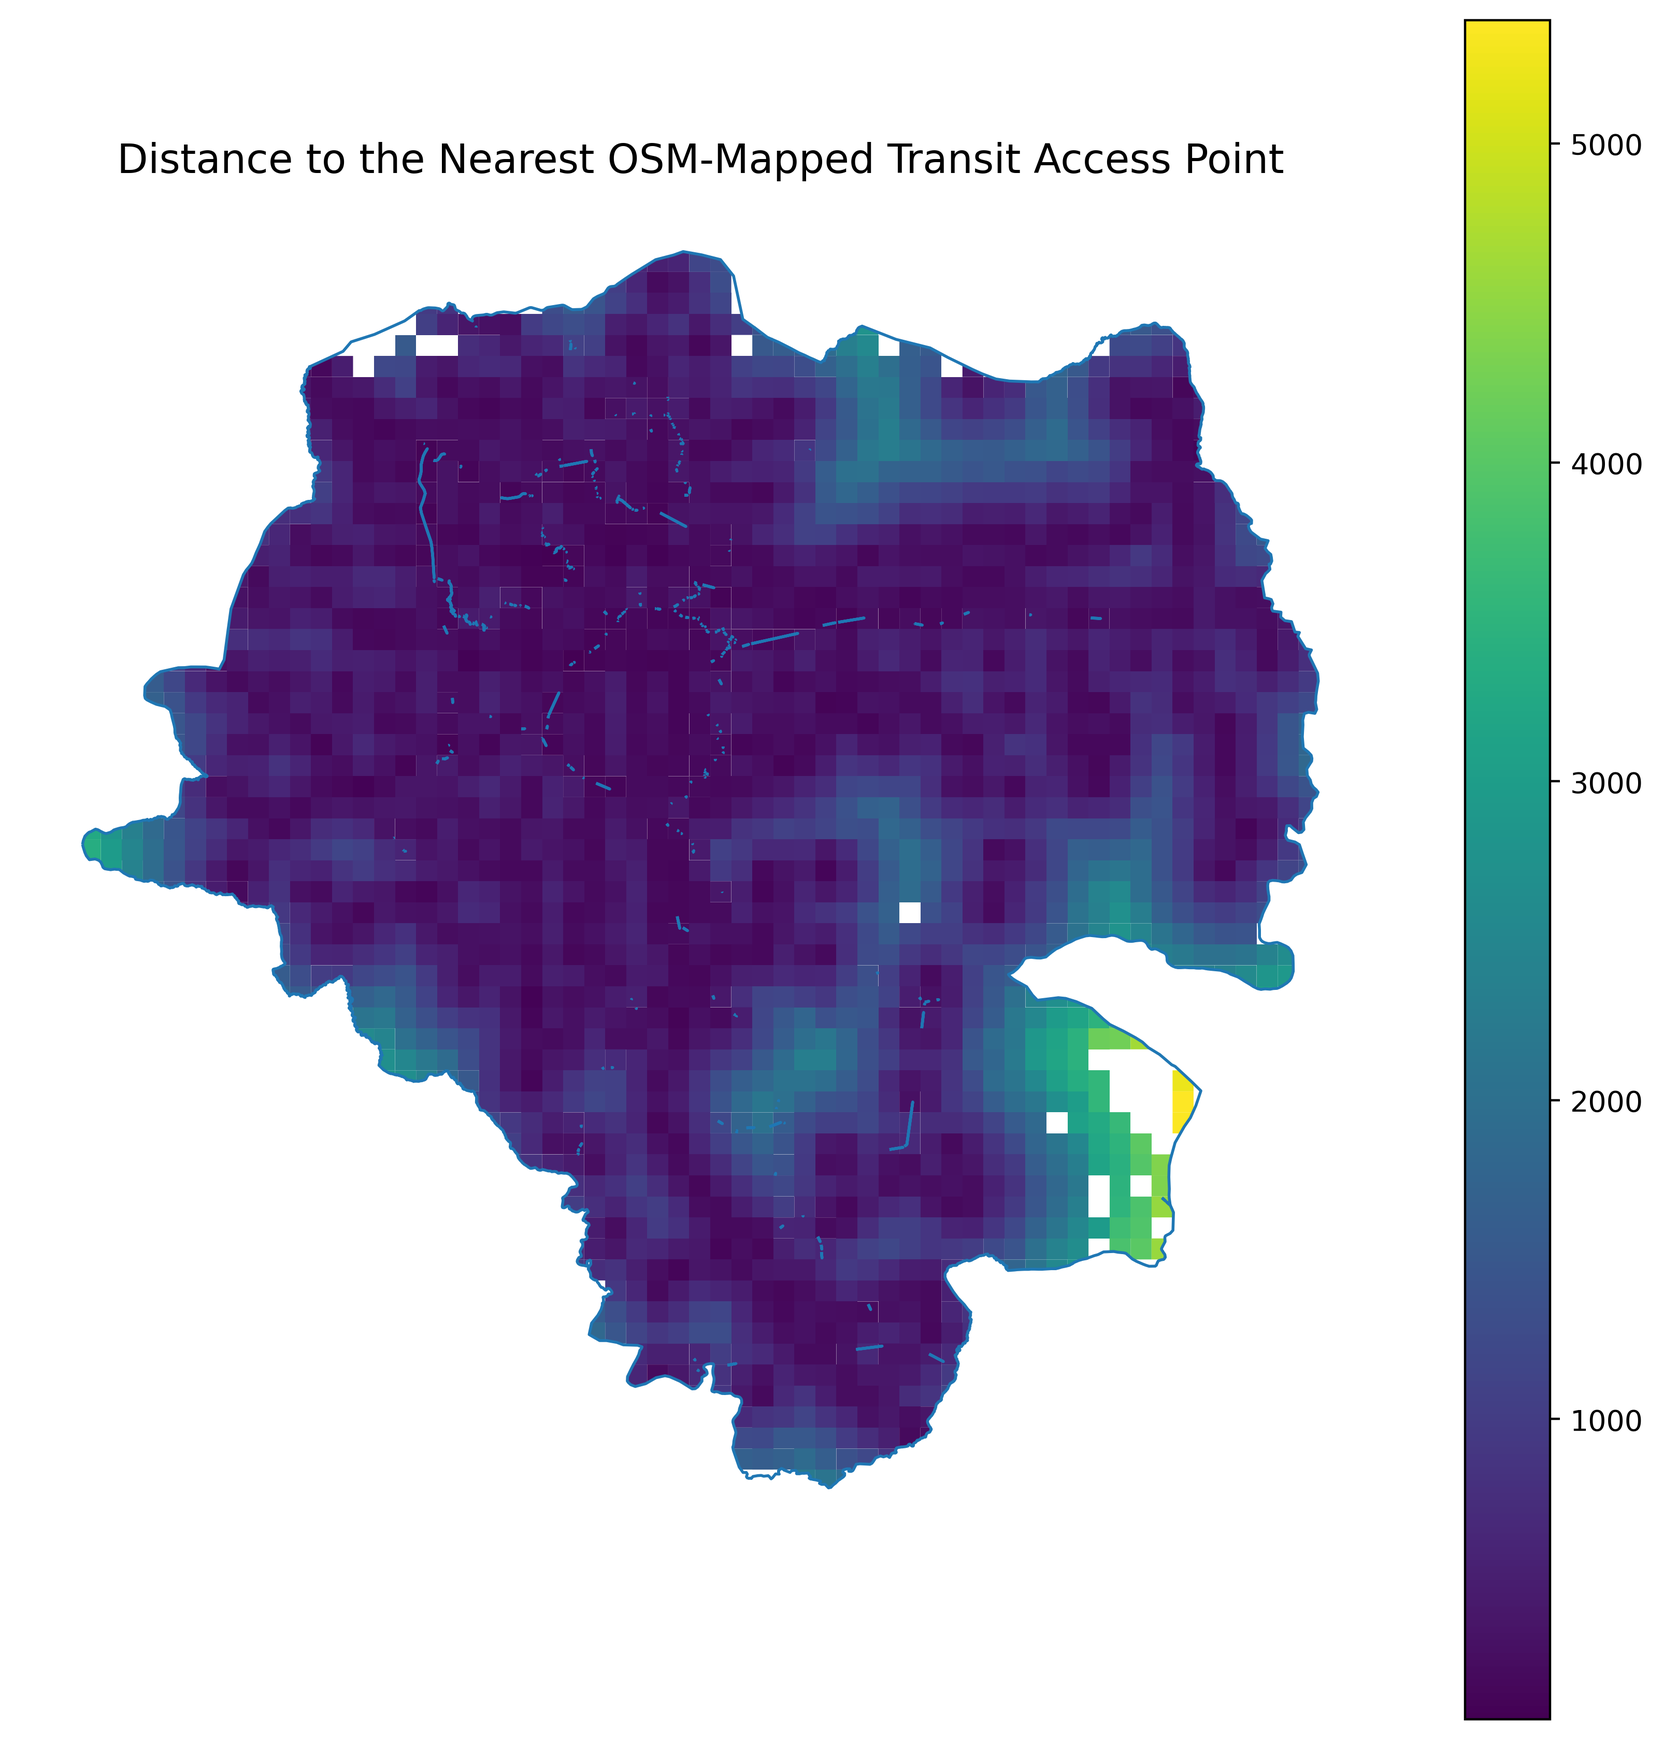
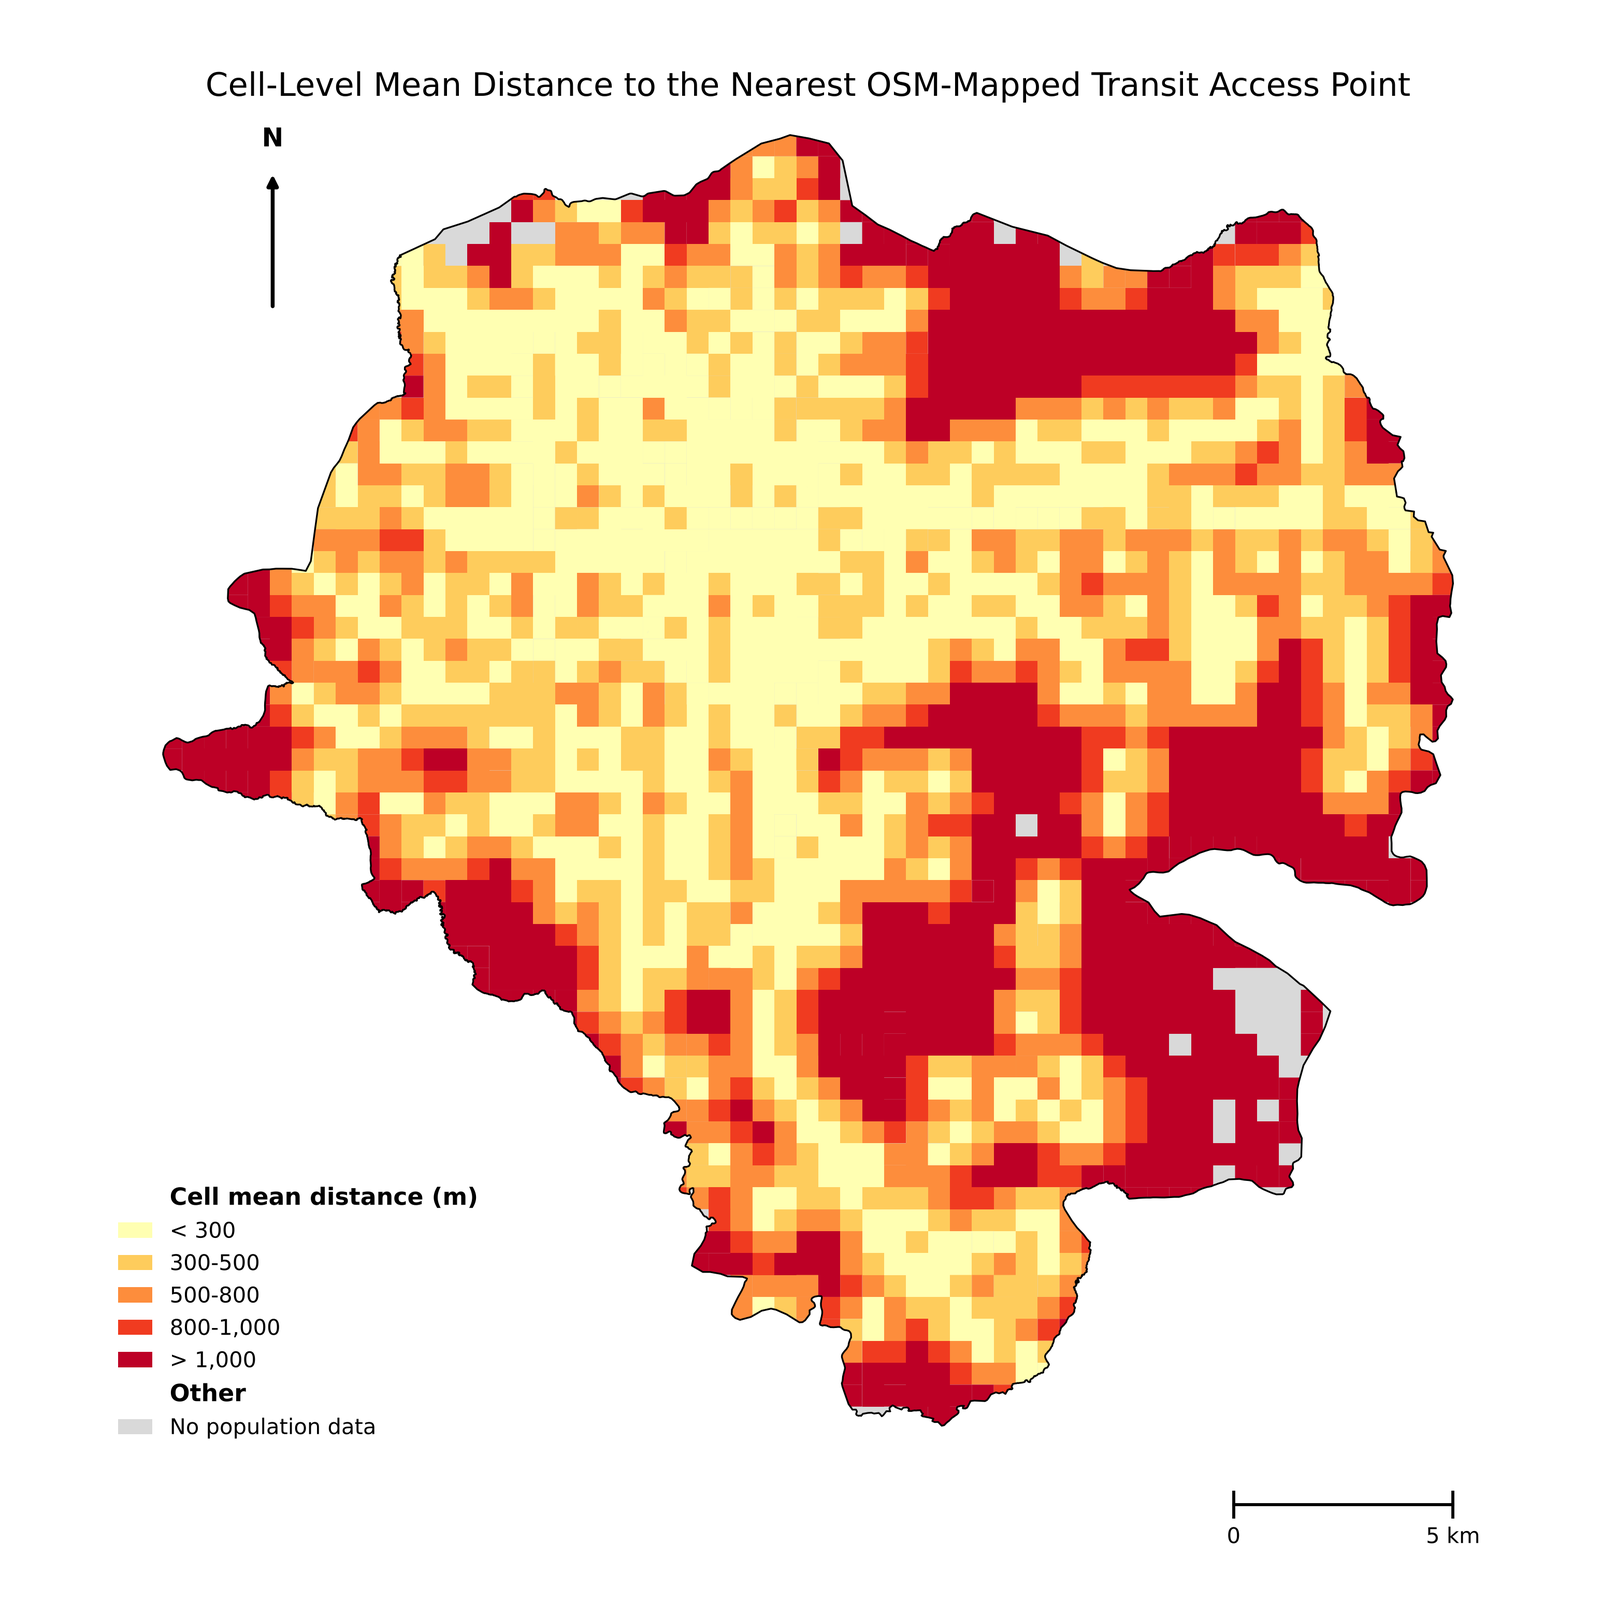
Add files via upload

diff --git a/src/make_figures.py b/src/make_figures.py
@@ -1,0 +1,180 @@
+"""Regenerate publication Figures 1-4 from the saved analysis outputs.
+
+Usage (from the repository root):
+    python src/make_figures.py [output_dir]
+
+Inputs : outputs/geospatial/*.geojson|csv and data/raw/boundary/aa_worda_boundary.shp
+Outputs: Fig1_study_area_transit.png, Fig2_nearest_transit_distance.png,
+         Fig3_priority_clusters.png, Fig4_threshold_sensitivity.png (default: outputs/figures)
+No analysis is recomputed here; the figures only display the saved results.
+"""
+import sys
+from pathlib import Path
+
+import geopandas as gpd
+import matplotlib
+import numpy as np
+import pandas as pd
+
+matplotlib.use("Agg")
+import matplotlib.patheffects as pe
+import matplotlib.pyplot as plt
+from matplotlib.colors import BoundaryNorm, ListedColormap
+from matplotlib.lines import Line2D
+from matplotlib.patches import Patch
+
+ROOT = Path(__file__).resolve().parent.parent
+GEO = ROOT / "outputs" / "geospatial"
+BOUNDARY = ROOT / "data" / "raw" / "boundary" / "aa_worda_boundary.shp"
+OUT = Path(sys.argv[1]) if len(sys.argv) > 1 else ROOT / "outputs" / "figures"
+CRS = "EPSG:32637"
+DPI = 300
+plt.rcParams["font.family"] = "DejaVu Sans"
+BLUE, GREY, RED, ACCENT = "#1f77b4", "#d9d9d9", "#d62728", "#ff7f00"
+
+
+def load():
+    boundary = gpd.read_file(BOUNDARY).to_crs(CRS)
+    # Dissolve the woredas and keep only the outer ring(s): tiny interior gaps/slivers between
+    # woreda polygons would otherwise be drawn as stray lines. Analysis uses the saved outputs only.
+    from shapely.geometry import MultiPolygon, Polygon
+    u = boundary.union_all()
+    polys = list(u.geoms) if isinstance(u, MultiPolygon) else [u]
+    outline = gpd.GeoSeries([MultiPolygon([Polygon(p.exterior) for p in polys])], crs=CRS)
+    cells = gpd.read_file(GEO / "population_access_cells_500m.geojson").to_crs(CRS)
+    priority = gpd.read_file(GEO / "priority_cells_500m.geojson").to_crs(CRS)
+    stops = gpd.read_file(GEO / "transit_access_points.geojson").to_crs(CRS)
+    return outline, cells, priority, stops
+
+
+MAP_SIZE = (10.4, 10.4)  # identical canvas for Figs 1-3
+
+
+def base(outline, title, figsize=MAP_SIZE, fill=GREY):
+    fig, ax = plt.subplots(figsize=figsize, dpi=DPI)
+    outline.plot(ax=ax, facecolor=fill, edgecolor="none", zorder=0)  # grey = no population data (maps 2-3)
+    ax.set_aspect("equal")
+    ax.set_axis_off()
+    fig.subplots_adjust(left=0.02, right=0.98, top=0.93, bottom=0.02)
+    ax.set_title(title, fontsize=15, pad=8)
+    return fig, ax
+
+
+def finish_map(ax, outline):
+    outline.boundary.plot(ax=ax, color="black", linewidth=0.8, zorder=6)
+    minx, miny, maxx, maxy = outline.total_bounds
+    # scale bar: 5 km, lower right, thin line with end ticks and "0" / "5 km" labels
+    x0, y0 = maxx - 5000, miny - 1800
+    ax.plot([x0, x0 + 5000], [y0, y0], color="black", linewidth=1.4, zorder=7)
+    for xt in (x0, x0 + 5000):
+        ax.plot([xt, xt], [y0 - 280, y0 + 280], color="black", linewidth=1.4, zorder=7)
+    ax.text(x0, y0 - 500, "0", ha="center", va="top", fontsize=10, zorder=7)
+    ax.text(x0 + 5000, y0 - 500, "5 km", ha="center", va="top", fontsize=10, zorder=7)
+    ax.set_ylim(y0 - 1800, maxy + 500)
+    # north arrow: upper right
+    nx, ny = minx + 2500, maxy - 800
+    ax.annotate("", xy=(nx, ny), xytext=(nx, ny - 3200),
+                arrowprops=dict(arrowstyle="-|>", color="black", lw=1.8), zorder=7)
+    ax.text(nx, ny + 400, "N", ha="center", va="bottom", fontsize=12, fontweight="bold", zorder=7)
+
+
+def fig1(outline, stops):
+    fig, ax = base(outline, "Study Area and OSM-Mapped Transit Access Points", fill="white")
+    stops.plot(ax=ax, color=BLUE, markersize=5, alpha=0.6, linewidth=0, zorder=3)
+    finish_map(ax, outline)
+    ax.legend(handles=[
+        Line2D([0], [0], marker="o", color="none", markerfacecolor=BLUE, alpha=0.8, markersize=6,
+               label=f"OSM-mapped transit access point (n = {len(stops):,})"),
+        Line2D([0], [0], color="black", lw=1, label="Study boundary (SSGI woredas, dissolved)")],
+        loc="lower left", bbox_to_anchor=(0.0, 0.085), frameon=False, fontsize=10)
+    return fig
+
+
+def grouped_legend(ax, groups, **kw):
+    """Legend with bold group headings. groups = [(heading, [handles...]), ...]"""
+    handles, headers = [], []
+    for heading, hs in groups:
+        headers.append(len(handles))
+        handles.append(Patch(facecolor="none", edgecolor="none", label=heading))
+        handles.extend(hs)
+    leg = ax.legend(handles=handles, loc="lower left", bbox_to_anchor=(0.0, 0.085), frameon=False,
+                    fontsize=10, handlelength=1.6, **kw)
+    for i in headers:
+        leg.get_texts()[i].set_fontweight("bold")
+        leg.get_texts()[i].set_fontsize(11)
+    return leg
+
+
+def fig2(outline, cells):
+    # Band edges are the paper's own proximity thresholds (300, 500, 800, 1,000 m); no other breaks.
+    bins = [0, 300, 500, 800, 1000, np.inf]
+    cols = ["#ffffb2", "#fecc5c", "#fd8d3c", "#f03b20", "#bd0026"]  # ColorBrewer YlOrRd, 5 classes
+    labels = ["< 300", "300-500", "500-800", "800-1,000", "> 1,000"]
+    cmap, norm = ListedColormap(cols), BoundaryNorm(bins, len(cols))
+    fig, ax = base(outline, "Cell-Level Mean Distance to the Nearest OSM-Mapped Transit Access Point")
+    cells.plot(ax=ax, column="mean_distance_m", cmap=cmap, norm=norm, linewidth=0, zorder=2)
+    finish_map(ax, outline)
+    grouped_legend(ax, [("Cell mean distance (m)", [Patch(facecolor=c, label=l) for c, l in zip(cols, labels)]),
+                        ("Other", [Patch(facecolor=GREY, label="No population data")])])
+    return fig
+
+
+def fig3(outline, cells, priority):
+    """Emphasis design: quiet single-hue density base (quartile classes), priority cells in an accent colour."""
+    fig, ax = base(outline, "Population Density and Screening-Priority Clusters")
+    d = cells.population_density
+    q1, q2, q3 = np.percentile(d, [25, 50, 75])  # quartiles of the research-cell densities; q3 = priority cut-off
+    bins = [0, q1, q2, q3, np.inf]
+    cols = ["#eff3ff", "#bdd7e7", "#6baed6", "#2171b5"]  # ColorBrewer Blues, 4 classes
+    f = lambda v: f"{v:,.0f}"
+    labels = [f"< {f(q1)}", f"{f(q1)}-{f(q2)}", f"{f(q2)}-{f(q3)}", f">= {f(q3)} (top quartile)"]
+    cmap, norm = ListedColormap(cols), BoundaryNorm(bins, len(cols))
+    cells.plot(ax=ax, column="population_density", cmap=cmap, norm=norm, linewidth=0, zorder=2)
+    priority.plot(ax=ax, facecolor=ACCENT, edgecolor="black", linewidth=0.6, zorder=4)
+    for cid, g in priority.groupby("cluster_id"):
+        c = g.union_all().centroid
+        ax.text(c.x + 450, c.y + 450, str(int(cid)), fontsize=8.5, fontweight="bold", color="black",
+                ha="center", va="center", zorder=8,
+                path_effects=[pe.withStroke(linewidth=2.4, foreground="white")])
+    finish_map(ax, outline)
+    ncl = priority.cluster_id.nunique()
+    grouped_legend(ax, [
+        ("Population density (people/km²)", [Patch(facecolor=c, label=l) for c, l in zip(cols, labels)]),
+        ("Screening-priority cell", [Patch(facecolor=ACCENT, edgecolor="black", linewidth=0.6,
+            label=f"Top-quartile density and >= 50% of residents\nbeyond 500 m (n = {len(priority)}; numbers = {ncl} cluster IDs)")]),
+        ("Other", [Patch(facecolor=GREY, label="No population data")])])
+    return fig
+
+
+def fig4():
+    d = pd.read_csv(GEO / "accessibility_sensitivity.csv")
+    x, y = d.threshold_m.tolist(), d.population_coverage_pct.tolist()
+    fig, ax = plt.subplots(figsize=(9.86, 6.52), dpi=DPI)
+    ax.plot(x, y, marker="o", linewidth=2.5, markersize=8, color=BLUE)
+    for xi, yi in zip(x, y):
+        ax.annotate(f"{yi:.1f}%", (xi, yi), textcoords="offset points", xytext=(0, 12), ha="center", fontsize=11.1)
+    ax.set_ylim(0, 100)
+    ax.set_xticks(range(300, 1001, 100))
+    ax.set_xlabel("Euclidean proximity threshold (m)", fontsize=13.25)
+    ax.set_ylabel("Population coverage (%)", fontsize=13.25)
+    ax.set_title("Sensitivity of Population Coverage to Distance Threshold", fontsize=18.6)
+    ax.grid(alpha=0.3)
+    ax.tick_params(labelsize=12.8)
+    fig.tight_layout()
+    return fig
+
+
+def main():
+    OUT.mkdir(parents=True, exist_ok=True)
+    outline, cells, priority, stops = load()
+    for name, fig in [("Fig1_study_area_transit.png", fig1(outline, stops)),
+                      ("Fig2_nearest_transit_distance.png", fig2(outline, cells)),
+                      ("Fig3_priority_clusters.png", fig3(outline, cells, priority)),
+                      ("Fig4_threshold_sensitivity.png", fig4())]:
+        fig.savefig(OUT / name, dpi=DPI, facecolor="white")
+        plt.close(fig)
+        print("saved", OUT / name)
+
+
+if __name__ == "__main__":
+    main()

diff --git a/src/transit_access_analysis.py b/src/transit_access_analysis.py
@@ -3,7 +3,7 @@
 
 The analysis uses:
 - SSGI woreda-level administrative boundaries for Addis Ababa (via HDX, CC0 1.0), dissolved to the study boundary;
-- WorldPop Ethiopia 2020 population counts (~100 m pixels);
+- WorldPop R2025A v1 constrained 2026 population counts (~100 m pixels);
 - A dated OSM/Overpass snapshot of point transit features retrieved 2026-07-24.
 
 Core metric: Euclidean distance from each native population-pixel centroid to the
@@ -263,7 +263,7 @@ def main():
 
     metadata = {
                 "boundary_source": "Space Science and Geospatial Institute (SSGI) Addis Ababa woreda boundaries, obtained via HDX (CC0 1.0); woreda polygons dissolved to the study boundary",
-        "population_source": "WorldPop Ethiopia 2020 Population Counts; estimated people per approximately 100 m grid cell",
+        "population_source": "WorldPop Global 2015-2030 constrained population counts, R2025A v1, year 2026 (eth_pop_2026_CN_100m_R2025A_v1); estimated people per approximately 100 m grid cell",
         "population_raster_crs": source_crs,
         "population_raster_resolution": list(source_resolution),
         "osm_snapshot": osm_path.name,

diff --git a/README.md b/README.md
@@ -25,10 +25,11 @@ At 500 m, 60 high-density screening-priority cells were identified. Together the
 
 ### Population
 
-- **Source:** WorldPop, Ethiopia 2020 Population Counts
-- Approximate resolution: 100 m
+- **Source:** WorldPop Global 2015–2030 constrained population counts, release R2025A v1, year 2026 (file `eth_pop_2026_CN_100m_R2025A_v1.tif`; the repository holds a clip of it, `addis_population_clipped.tif`)
+- Approximate resolution: 100 m (3 arc-seconds)
+- Constrained product: unsettled pixels are NoData (about 8% of pixels inside the study boundary)
 - Population values represent **estimated people per grid cell**.
-- DOI: https://doi.org/10.5258/SOTON/WP00682
+- Citation: Bondarenko et al. (2026), DOI: https://doi.org/10.5258/SOTON/WP00839 (WorldPop describes R2025A v1 as an early release that may change)
 
 The analysis uses the native population pixels and preserves their total population count. Population pixels are classified by their Euclidean distance to the nearest transit access point and then aggregated to 500 m research cells.
 
@@ -73,10 +74,10 @@ In this project, **population-weighted proximity** means that threshold coverage
 For threshold \(T\):
 
 \[
-CT = [Σ Pi I(di ≤ T) / Σ Pi] × 100
+C_T = \frac{\sum_i P_i I(d_i \leq T)}{\sum_i P_i} \times 100
 \]
 
-where \(Pi\) is estimated population and \(di\) is Euclidean distance to the nearest mapped transit access point.
+where \(P_i\) is estimated population and \(d_i\) is Euclidean distance to the nearest mapped transit access point.
 
 ## Important interpretation limits
 
@@ -86,7 +87,7 @@ This project should **not** be described as a complete measure of public transpo
 - The 500 m scenario is not the UN SDG 11.2.1 indicator.
 - The analysis does not measure service frequency, capacity, reliability, fares, crowding, operating hours, route destinations, or pedestrian safety.
 - OSM completeness and tagging can affect the mapped transit supply.
-- WorldPop population estimates are from 2020, while the OSM snapshot is from 2026.
+- The WorldPop population surface is a 2026 modeled estimate from an early (v1) release that may be revised; the OSM snapshot reflects one date (24 July 2026).
 - The screening-priority thresholds are analytical choices, not universal planning standards.
 - Each native population raster cell is represented by its centroid for the proximity calculation; the estimated population in that cell is therefore treated as associated with that representative location.
 - The identified priority areas are **screening locations for further investigation**, not direct recommendations for new routes or stops.
@@ -128,7 +129,13 @@ Then run:
 python src/transit_access_analysis.py
 ```
 
-The script writes the reproducibility outputs to `outputs/geospatial/` and `outputs/analysis_metadata.json`. The publication figures in `outputs/figures/` are the figures used in the working paper.
+The script writes the reproducibility outputs to `outputs/geospatial/` and `outputs/analysis_metadata.json`. The publication figures in `outputs/figures/` are the figures used in the working paper. They are regenerated from the saved outputs (no analysis is recomputed) with:
+
+```bash
+python src/make_figures.py
+```
+
+Density classes in Figure 3 are quartiles of the 2,155 research-cell densities, and the colour bands in Figure 2 follow the paper's proximity thresholds (300, 500, 800 and 1,000 m).
 
 ## Validation checks
 

diff --git a/docs/OSM_RETRIEVAL.md b/docs/OSM_RETRIEVAL.md
@@ -1,0 +1,34 @@
+# OSM snapshot retrieval
+
+The snapshot `data/raw/osm/osm_transit_snapshot_2026-07-24.json` is raw Overpass API output
+(generator: Overpass API 0.7.62.11; `timestamp_osm_base` 2026-07-24T10:57:40Z).
+
+## How it was obtained
+
+The author's original early script requested the data through OSMnx, which sends the query to the Overpass API:
+
+```python
+CITY = "Addis Ababa, Ethiopia"
+tags = {
+    "highway": "bus_stop",
+    "public_transport": ["stop_position", "platform"],
+    "railway": ["station", "stop", "halt", "tram_stop"],
+}
+stops_gdf = ox.features_from_place(CITY, tags=tags)
+# point geometries were kept; polygons/ways were discarded
+```
+
+The area was the place polygon OSMnx resolves for "Addis Ababa, Ethiopia" (a Nominatim lookup), not the SSGI study boundary.
+The exact Overpass text that OSMnx generated was not saved, and the retrieval step is not part of the current analysis
+script: the saved JSON is the analysis input. Re-running the call today will not reproduce the snapshot, because OSM changes continuously.
+
+## Consistency check on the saved file
+
+- 2,577 nodes and 75 ways. 2,417 nodes carry tags; the other 160 are untagged vertices of the 75 platform ways.
+- All 2,417 tagged nodes and all 75 ways satisfy the tag set above (`highway=bus_stop`, `public_transport=stop_position|platform`,
+  `railway=station|stop|halt|tram_stop`). Adding `public_transport=station` (listed in the paper) selects no additional objects,
+  because every such object also carries `railway=station` or `highway=bus_stop`. No `railway=tram_stop` object occurs in the data.
+- Node extent: about 8.84-9.09 N, 38.67-38.89 E.
+- The analysis keeps point nodes only and filters them to the study boundary (2,414 of 2,417 inside).
+
+This establishes that the tag set matches; it does not prove the byte-for-byte origin of the file.

diff --git a/DATA_SOURCES.md b/DATA_SOURCES.md
@@ -2,9 +2,11 @@
 
 ## 1. WorldPop population
 
-**Dataset:** Ethiopia 2020 Population Counts  
+**Dataset:** WorldPop Global 2015–2030 constrained population counts, R2025A v1, year 2026  
+**File:** `eth_pop_2026_CN_100m_R2025A_v1.tif` (repository holds a clip: `addis_population_clipped.tif`)  
 **Provider:** WorldPop, University of Southampton  
-**DOI:** https://doi.org/10.5258/SOTON/WP00682  
+**Citation:** Bondarenko et al. (2026), https://doi.org/10.5258/SOTON/WP00839  
+**Note:** constrained product; unsettled pixels are NoData. WorldPop labels this release an early version that may change.  
 **Resolution:** approximately 100 m  
 **Interpretation:** estimated number of people per grid cell.
 
@@ -28,7 +30,8 @@ This is not the OCHA COD-AB boundary set. The HDX record cautions that the datas
 
 **Source:** OpenStreetMap data retrieved through an Overpass API snapshot.  
 **Snapshot timestamp:** `2026-07-24T10:57:40Z`  
-**Local snapshot file:** `data/raw/osm/osm_transit_snapshot_2026-07-24.json`
+**Local snapshot file:** `data/raw/osm/osm_transit_snapshot_2026-07-24.json`  
+**Query:** requested through OSMnx (`ox.features_from_place("Addis Ababa, Ethiopia", tags)`); the generated Overpass text was not saved. The snapshot's contents (2,577 nodes, 75 ways; 2,417 tagged transit nodes) are consistent with the tag list below; see `docs/OSM_RETRIEVAL.md`.
 
 The snapshot contains the Overpass attribution notice that the data are from OpenStreetMap and are made available under ODbL.
 

diff --git a/docs/REPRODUCIBILITY_NOTES.md b/docs/REPRODUCIBILITY_NOTES.md
@@ -4,7 +4,7 @@ The reported paper results are generated from the files committed in `data/raw/`
 
 ## Source snapshot identity
 
-- WorldPop: Ethiopia 2020 Population Counts, DOI 10.5258/SOTON/WP00682.
+- WorldPop: Global 2015–2030 constrained population counts, R2025A v1, 2026 (eth_pop_2026_CN_100m_R2025A_v1.tif), DOI 10.5258/SOTON/WP00839.
 - OSM: Overpass snapshot timestamp `2026-07-24T10:57:40Z`.
 - Study boundary: SSGI Addis Ababa woreda boundaries (HDX dataset "Ethiopia – Addis Ababa subcities and woredas", CC0 1.0, downloaded 6 July 2026) dissolved to the study boundary.
 - Projected CRS: EPSG:32637.
